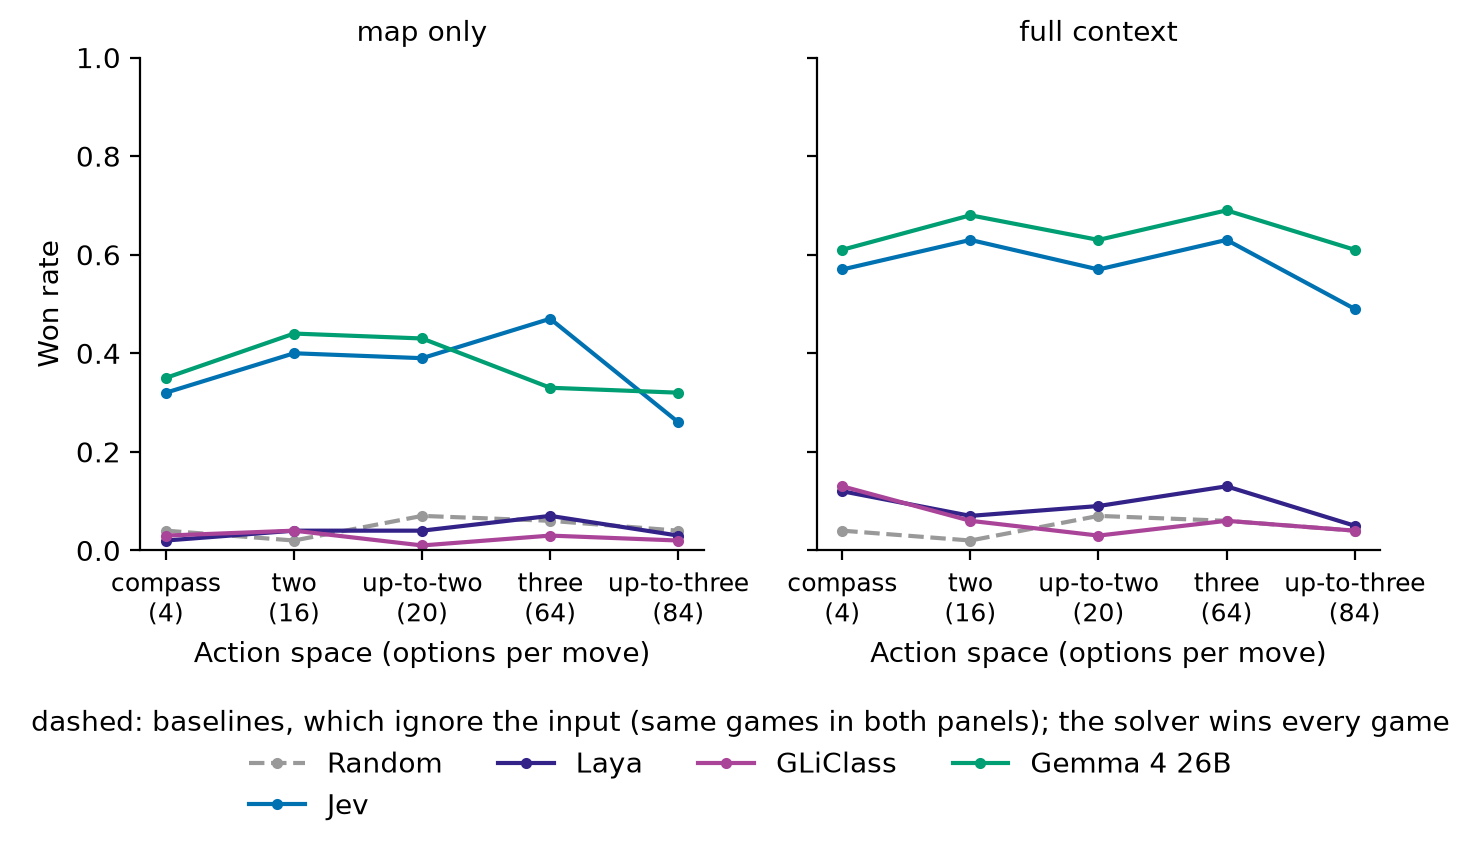
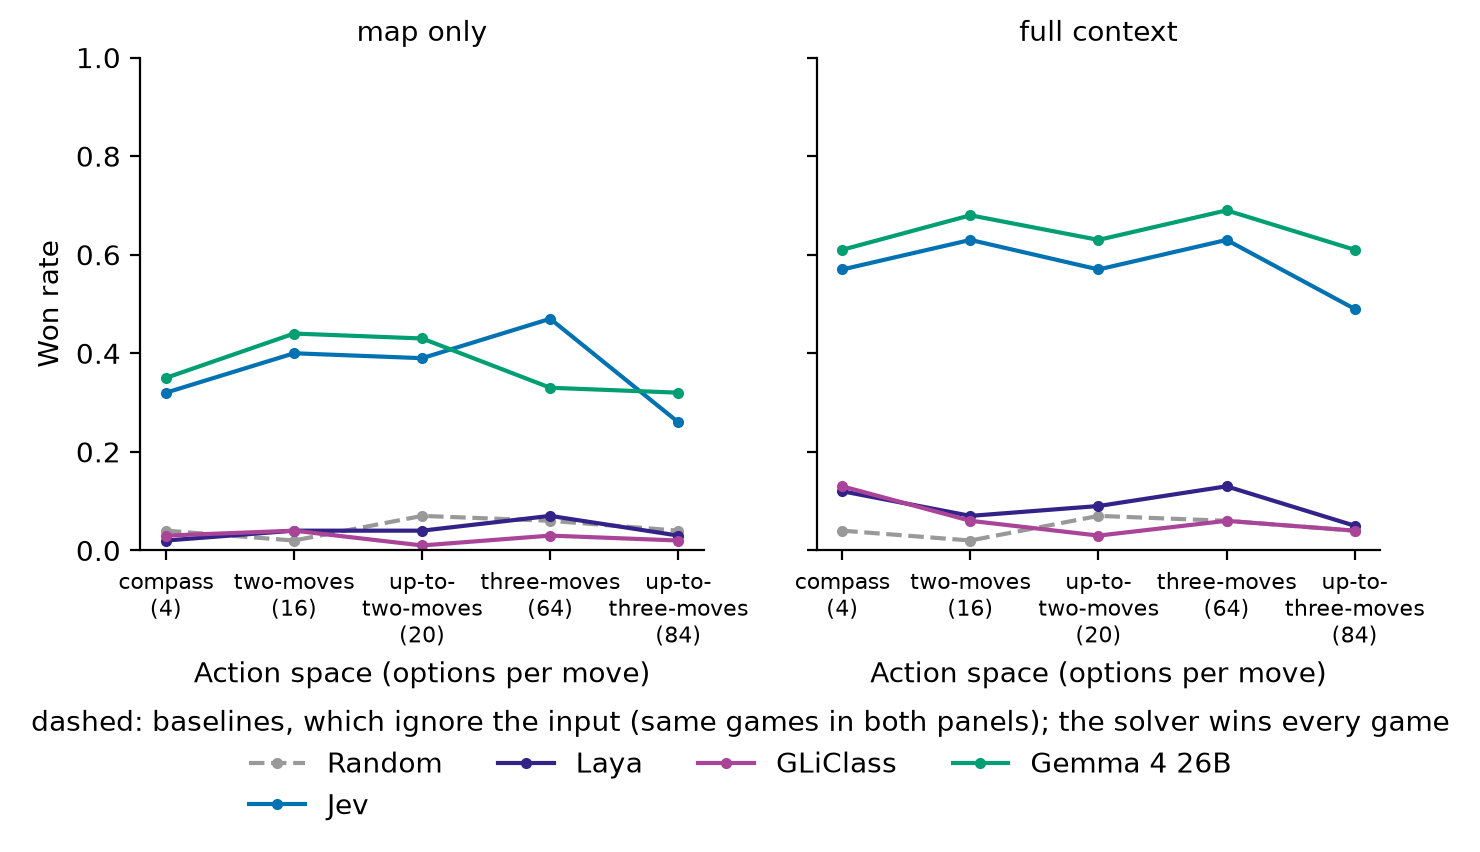
show the rule ids on the action space figure

Changed region(s): [[0.5284, 0.6714, 0.9635, 0.8239], [0.0622, 0.6714, 0.4973, 0.8239]]

diff --git a/analysis/analyze.py b/analysis/analyze.py
@@ -583,11 +583,14 @@ def fig_lines(games: dict, name: str, xs: list, key, xlabel: str) -> None:
                 ax.plot(*zip(*points, strict=True), style, ms=3, color=color, label=label)
         ax.set_xticks(
             range(len(xs)),
-            [f"{x}".replace("-moves", "") + (f"\n({RULES[x]})" if x in RULES else "") for x in xs],
+            [
+                f"{x}".replace("up-to-", "up-to-\n") + (f"\n({RULES[x]})" if x in RULES else "")
+                for x in xs
+            ],
         )
         ax.set_title(INPUTS[condition], fontsize=10)
         ax.set_ylim(0, 1)
-        ax.tick_params(axis="x", labelsize=9)
+        ax.tick_params(axis="x", labelsize=8)
         ax.set_xlabel(xlabel)
     axes[0].set_ylabel("Won rate")
     handles, labels = axes[1].get_legend_handles_labels()
@@ -644,7 +647,7 @@ def main() -> None:
     fig_components(games)
     fig_lines(games, "fig_action_spaces", list(RULES), rules_won, "Action space (options per move)")
     levels = sorted({x.level for x in games[("solver", "compass", "map")].values()})
-    xlabel = "Level (steps to the goal; evenly spaced, not to scale), compass"
+    xlabel = "Level (steps to the goal; not to scale)"
     fig_lines(games, "fig_levels", levels, level_won, xlabel)
     fig_calibration(games)
     exam = load_exam()
